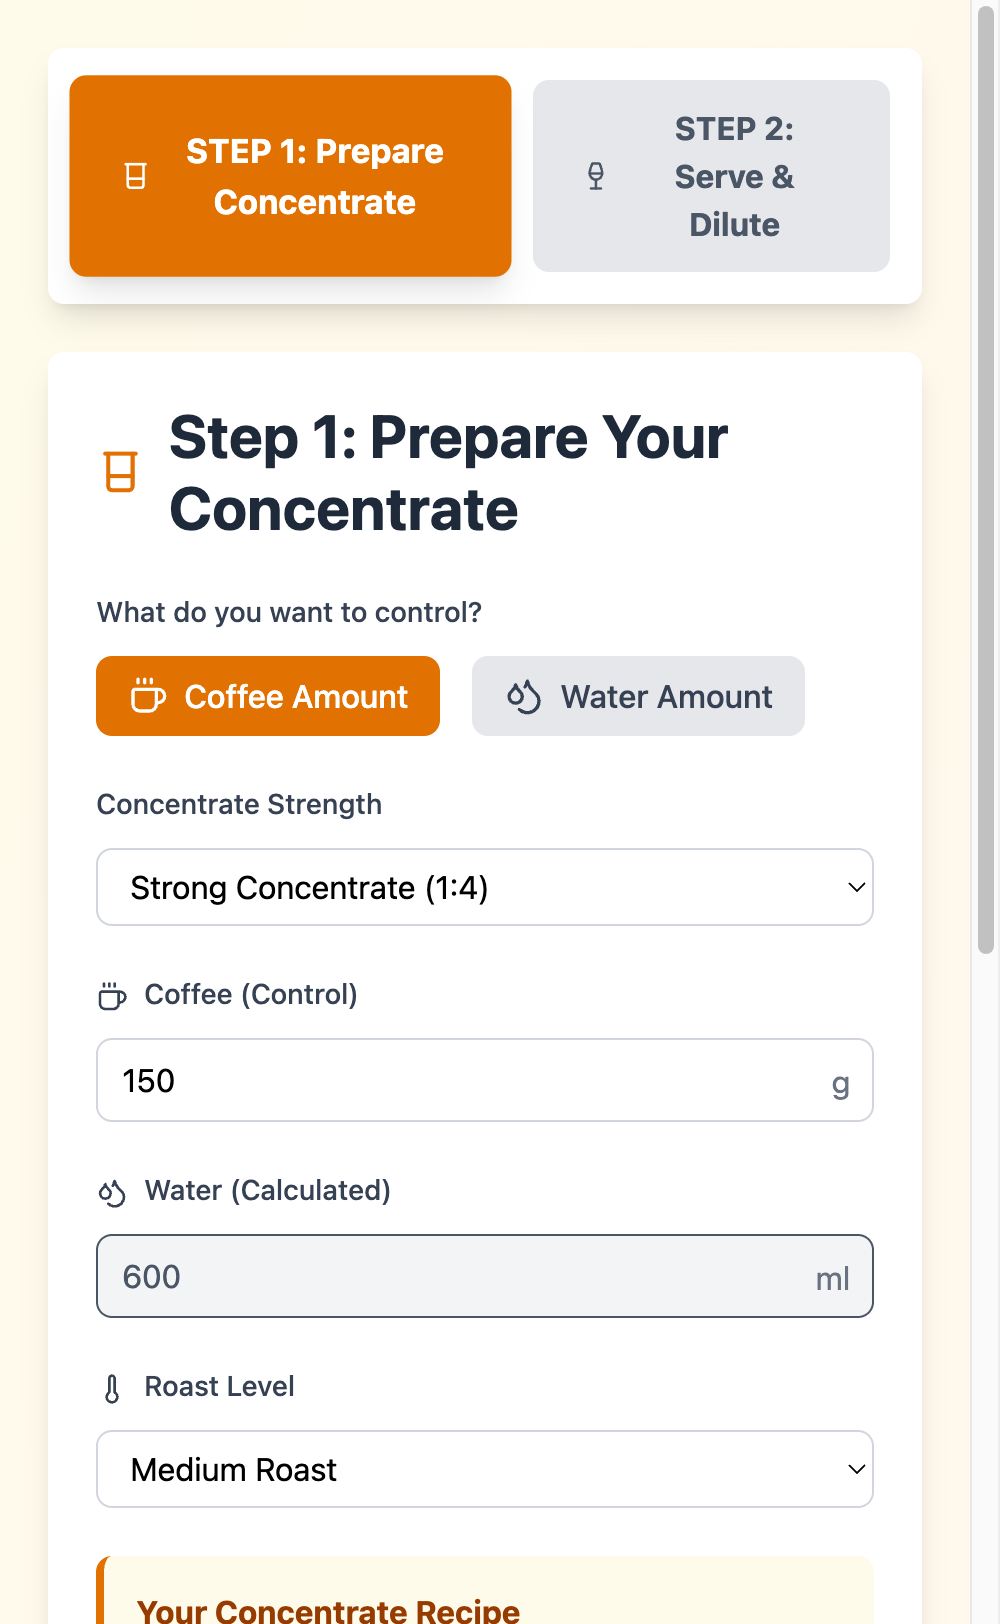
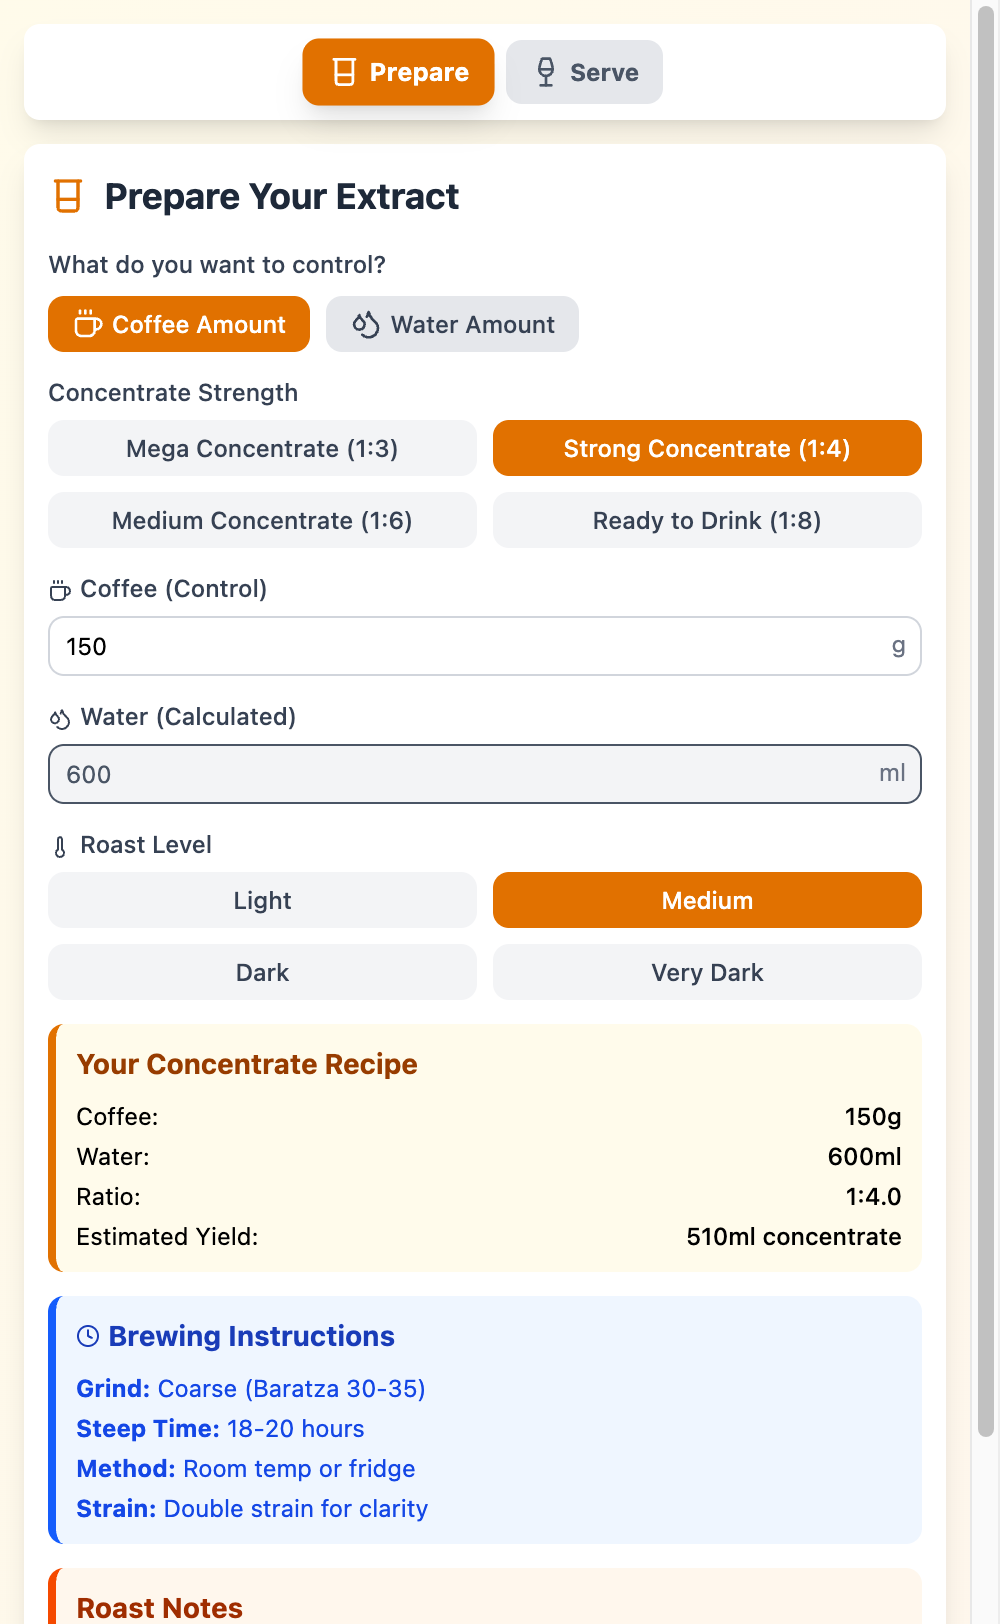
Convert all dropdowns to button groups for better UX
- Concentrate Strength: 2x2 button grid
- Roast Level: 2x2 button grid (Light, Medium, Dark, Very Dark)
- Concentrate Type Selector: 2x2 button grid on serve page
- Serving Strength: 3-button horizontal layout

Updated screenshots with new button UI

🤖 Generated with [Claude Code](https://claude.com/claude-code)

Changed region(s): [[0.031, 0.0, 0.93, 1.0], [0.961, 0.585, 1.0, 0.8929]]

diff --git a/src/App.jsx b/src/App.jsx
@@ -141,17 +141,21 @@ const ColdBrewCalculator = () => {
             <div className="space-y-3 md:space-y-4 lg:space-y-6">
               <div>
                 <label className="block text-xs md:text-sm font-medium text-gray-700 mb-1.5 md:mb-2 lg:mb-3">Concentrate Strength</label>
-                <select
-                  value={strengthPreference}
-                  onChange={(e) => handleStrengthChange(e.target.value)}
-                  className="w-full px-2 md:px-3 py-1.5 md:py-2 text-xs md:text-sm lg:text-base border border-gray-300 rounded-lg focus:ring-2 focus:ring-amber-500 focus:border-transparent"
-                >
+                <div className="grid grid-cols-2 gap-2">
                   {Object.entries(strengthPresets).map(([key, preset]) => (
-                    <option key={key} value={key}>
+                    <button
+                      key={key}
+                      onClick={() => handleStrengthChange(key)}
+                      className={`px-2 md:px-3 py-1.5 md:py-2 text-xs md:text-sm rounded-lg font-medium transition-colors ${
+                        strengthPreference === key
+                          ? 'bg-amber-600 text-white'
+                          : 'bg-gray-100 text-gray-700 hover:bg-gray-200'
+                      }`}
+                    >
                       {preset.name}
-                    </option>
+                    </button>
                   ))}
-                </select>
+                </div>
               </div>
 
               <div>
@@ -199,16 +203,48 @@ const ColdBrewCalculator = () => {
                   <Thermometer className="inline mr-1 md:mr-2 w-3 h-3 md:w-4 md:h-4" />
                   Roast Level
                 </label>
-                <select
-                  value={roastLevel}
-                  onChange={(e) => setRoastLevel(e.target.value)}
-                  className="w-full px-2 md:px-3 py-1.5 md:py-2 text-xs md:text-sm lg:text-base border border-gray-300 rounded-lg focus:ring-2 focus:ring-amber-500 focus:border-transparent"
-                >
-                  <option value="light">Light Roast</option>
-                  <option value="medium">Medium Roast</option>
-                  <option value="dark">Dark Roast</option>
-                  <option value="very-dark">Very Dark Roast</option>
-                </select>
+                <div className="grid grid-cols-2 gap-2">
+                  <button
+                    onClick={() => setRoastLevel('light')}
+                    className={`px-2 md:px-3 py-1.5 md:py-2 text-xs md:text-sm rounded-lg font-medium transition-colors ${
+                      roastLevel === 'light'
+                        ? 'bg-amber-600 text-white'
+                        : 'bg-gray-100 text-gray-700 hover:bg-gray-200'
+                    }`}
+                  >
+                    Light
+                  </button>
+                  <button
+                    onClick={() => setRoastLevel('medium')}
+                    className={`px-2 md:px-3 py-1.5 md:py-2 text-xs md:text-sm rounded-lg font-medium transition-colors ${
+                      roastLevel === 'medium'
+                        ? 'bg-amber-600 text-white'
+                        : 'bg-gray-100 text-gray-700 hover:bg-gray-200'
+                    }`}
+                  >
+                    Medium
+                  </button>
+                  <button
+                    onClick={() => setRoastLevel('dark')}
+                    className={`px-2 md:px-3 py-1.5 md:py-2 text-xs md:text-sm rounded-lg font-medium transition-colors ${
+                      roastLevel === 'dark'
+                        ? 'bg-amber-600 text-white'
+                        : 'bg-gray-100 text-gray-700 hover:bg-gray-200'
+                    }`}
+                  >
+                    Dark
+                  </button>
+                  <button
+                    onClick={() => setRoastLevel('very-dark')}
+                    className={`px-2 md:px-3 py-1.5 md:py-2 text-xs md:text-sm rounded-lg font-medium transition-colors ${
+                      roastLevel === 'very-dark'
+                        ? 'bg-amber-600 text-white'
+                        : 'bg-gray-100 text-gray-700 hover:bg-gray-200'
+                    }`}
+                  >
+                    Very Dark
+                  </button>
+                </div>
               </div>
             </div>
 
@@ -284,20 +320,20 @@ const ColdBrewCalculator = () => {
           {!savedConcentrateRatio && (
             <div className="bg-yellow-50 p-2.5 md:p-3 lg:p-4 rounded-lg mb-3 md:mb-4 lg:mb-6 border-l-4 border-yellow-600">
               <h3 className="font-bold text-yellow-800 mb-1.5 md:mb-2 text-sm md:text-base">Which concentrate did you make?</h3>
-              <select
-                onChange={(e) => {
-                  setSavedConcentrateStrength(e.target.value);
-                  setSavedConcentrateRatio(strengthPresets[e.target.value].ratio);
-                }}
-                className="w-full px-2 md:px-3 py-1.5 md:py-2 text-xs md:text-sm lg:text-base border border-gray-300 rounded-lg focus:ring-2 focus:ring-amber-500"
-              >
-                <option value="">Select your concentrate type...</option>
+              <div className="grid grid-cols-2 gap-2">
                 {Object.entries(strengthPresets).map(([key, preset]) => (
-                  <option key={key} value={key}>
+                  <button
+                    key={key}
+                    onClick={() => {
+                      setSavedConcentrateStrength(key);
+                      setSavedConcentrateRatio(strengthPresets[key].ratio);
+                    }}
+                    className="px-2 md:px-3 py-1.5 md:py-2 text-xs md:text-sm rounded-lg font-medium bg-yellow-100 text-yellow-900 hover:bg-yellow-200 transition-colors"
+                  >
                     {preset.name}
-                  </option>
+                  </button>
                 ))}
-              </select>
+              </div>
             </div>
           )}
 
@@ -324,15 +360,21 @@ const ColdBrewCalculator = () => {
                 <label className="block text-xs md:text-sm font-medium text-gray-700 mb-1.5 md:mb-2 lg:mb-3">
                   Desired Serving Strength
                 </label>
-                <select
-                  value={desiredStrength}
-                  onChange={(e) => setDesiredStrength(e.target.value)}
-                  className="w-full px-2 md:px-3 py-1.5 md:py-2 text-xs md:text-sm lg:text-base border border-gray-300 rounded-lg focus:ring-2 focus:ring-blue-500"
-                >
+                <div className="grid grid-cols-3 gap-2">
                   {Object.entries(servingStrengths).map(([key, strength]) => (
-                    <option key={key} value={key}>{strength.name}</option>
+                    <button
+                      key={key}
+                      onClick={() => setDesiredStrength(key)}
+                      className={`px-2 md:px-3 py-1.5 md:py-2 text-xs md:text-sm rounded-lg font-medium transition-colors ${
+                        desiredStrength === key
+                          ? 'bg-blue-600 text-white'
+                          : 'bg-gray-100 text-gray-700 hover:bg-gray-200'
+                      }`}
+                    >
+                      {strength.name}
+                    </button>
                   ))}
-                </select>
+                </div>
               </div>
 
               <div className="bg-blue-50 p-2.5 md:p-3 lg:p-4 rounded-lg border-2 border-blue-500">
